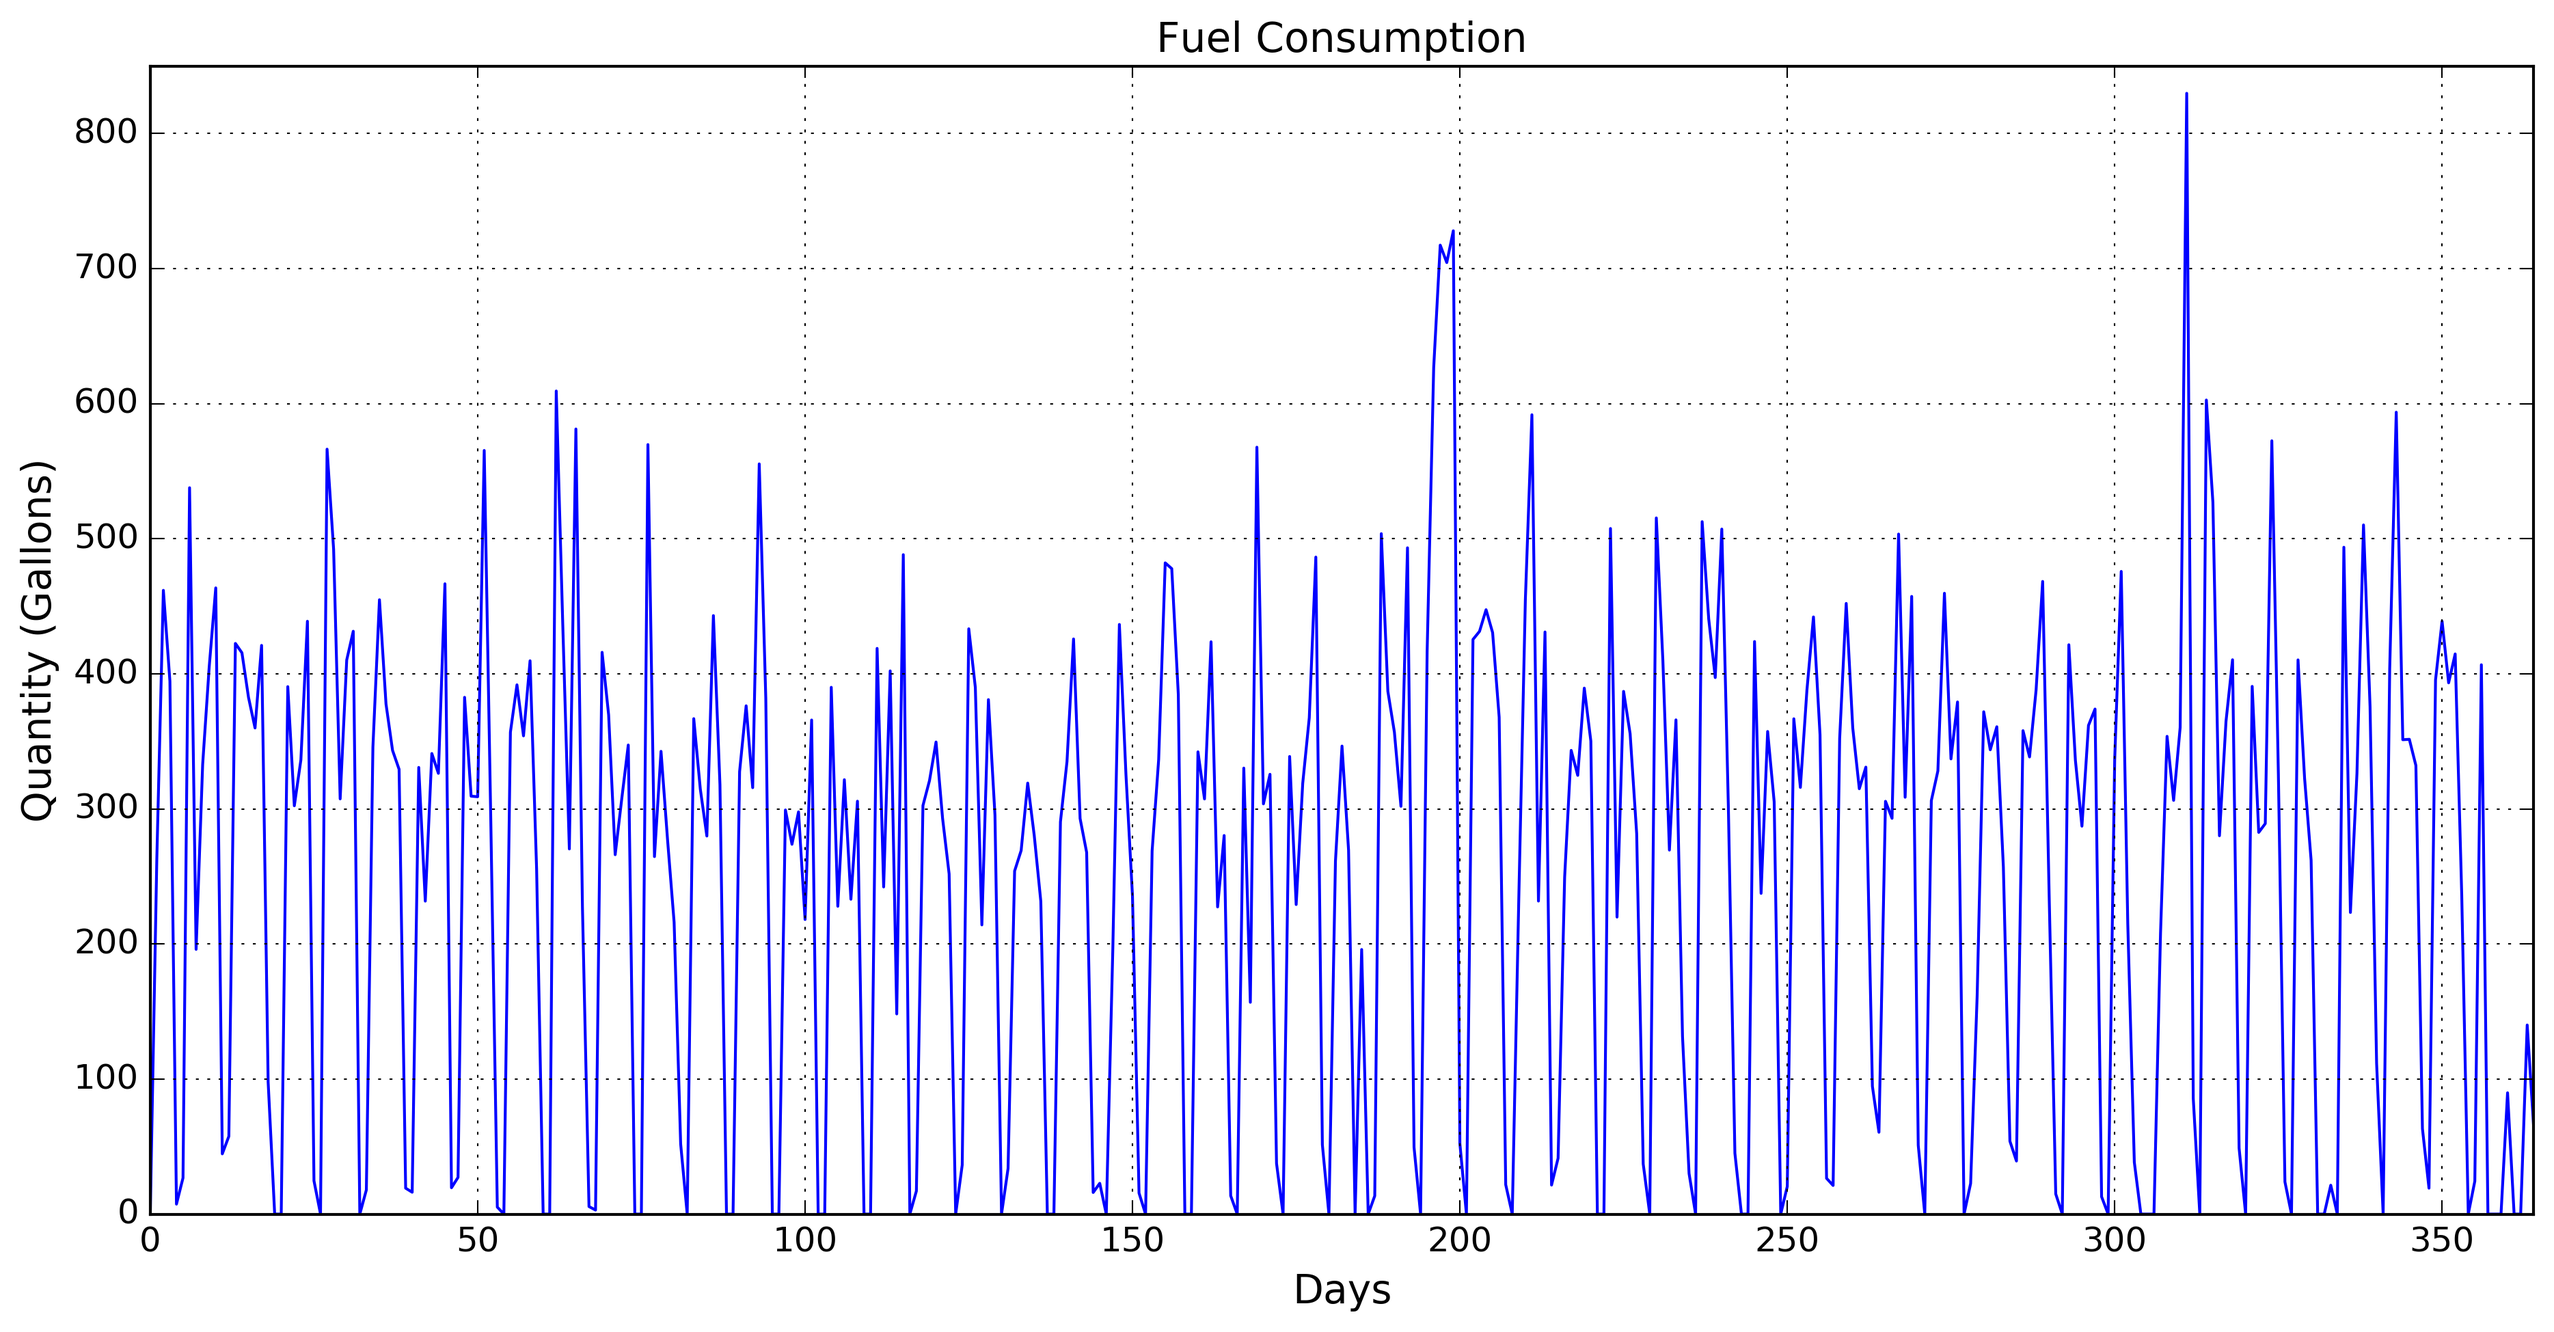
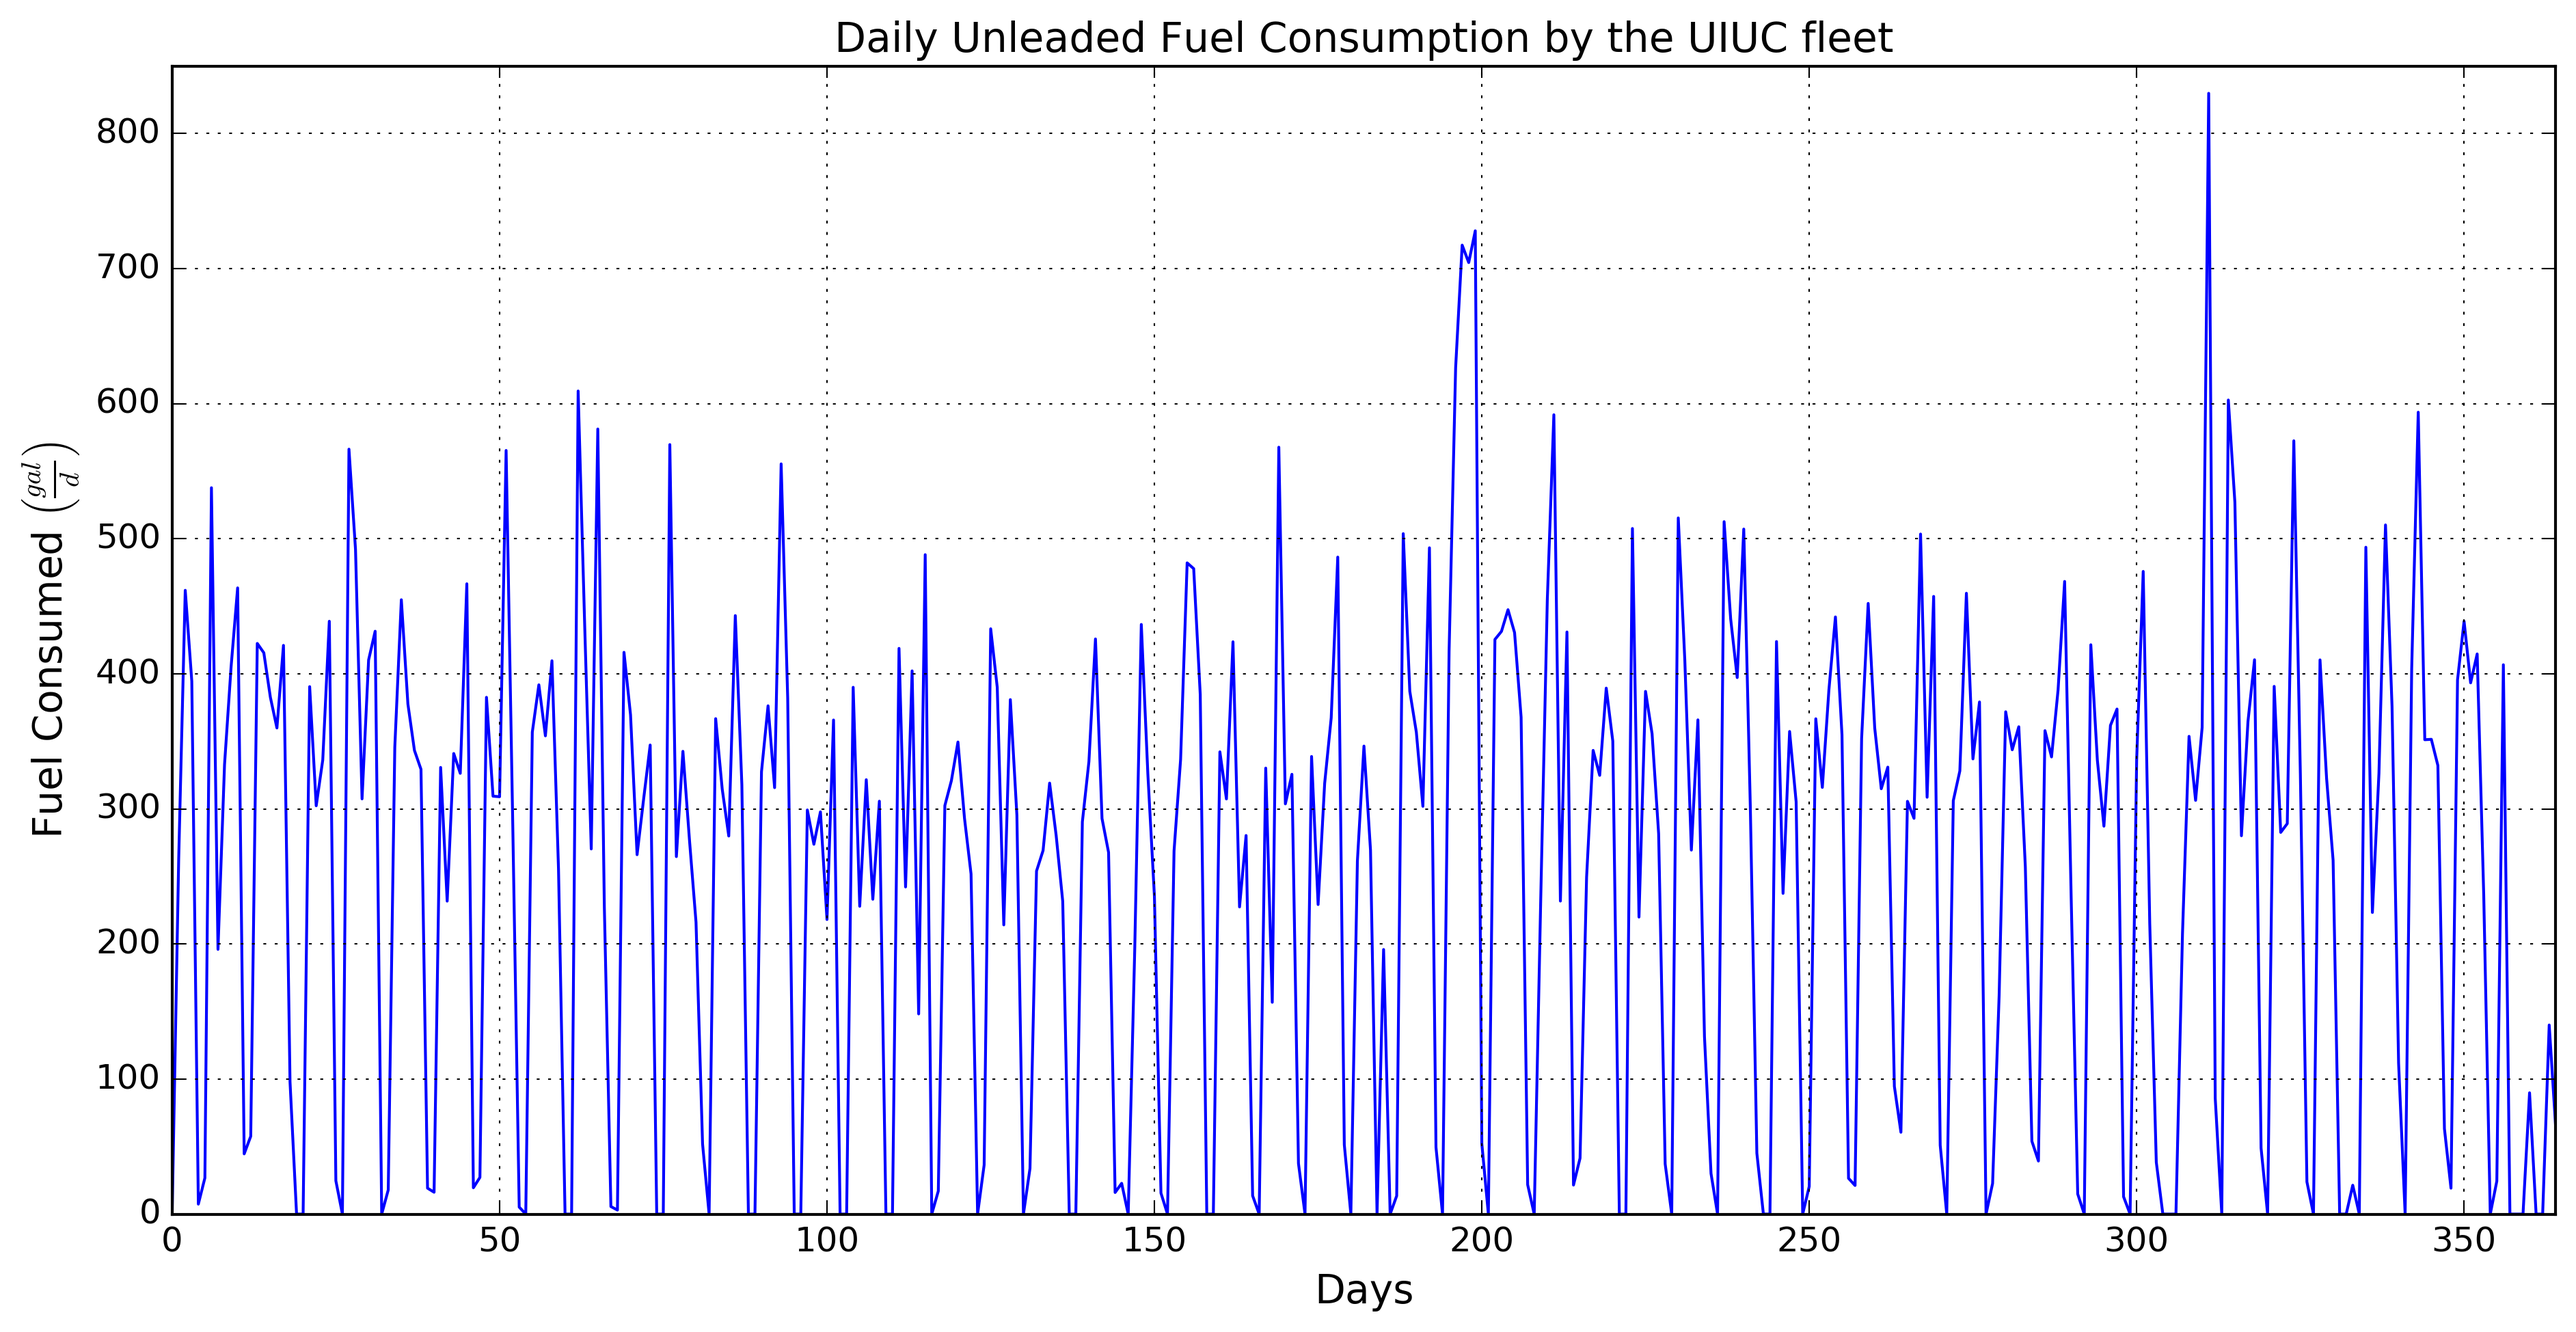
pep8

diff --git a/calculate.py b/calculate.py
@@ -1,4 +1,4 @@
-""" 
+"""
 This script analyses fuel consumption in a year.
 The input data to analyze has to have 'uiuc-fuel-consumption.txt' format.
 The outputs of the script are:
@@ -11,8 +11,8 @@ import numpy as np
 import matplotlib.pyplot as plt
 
 
-def plotfuel(fuel):
-    """ 
+def plotfuel(fuel, type):
+    """
     Plots 'fuel'.
 
     Parameters:
@@ -20,6 +20,8 @@ def plotfuel(fuel):
     fuel: list
         list of values to be plotted. First value corresponds to the
         beginning of the year.
+    type: string
+        name of the fuel
 
     Returns:
     --------
@@ -27,7 +29,8 @@ def plotfuel(fuel):
     """
     fig, ax = plt.subplots(figsize=(15, 7))
     ax.plot(fuel)
-    ax.set_title('Daily {0} Fuel Consumption by the UIUC fleet'.format(fuel.capitalize()))
+    ax.set_title('Daily {0} Fuel Consumption by the'
+                 ' UIUC fleet'.format(type.capitalize()))
     ax.grid()
     ax.set(xlim=(0, 364), ylim=(0, 850))
     ax.set_xlabel("Days", fontsize=14)
@@ -91,7 +94,7 @@ def main():
     print('avg per day diesel: ', round(sum(diesel)/len(diesel), 2))
     print('avg per day e85: ', round(sum(e85)/len(e85), 2))
 
-    plotfuel(unleaded)
+    plotfuel(unleaded, 'unleaded')
 
 
 if __name__ == "__main__":
